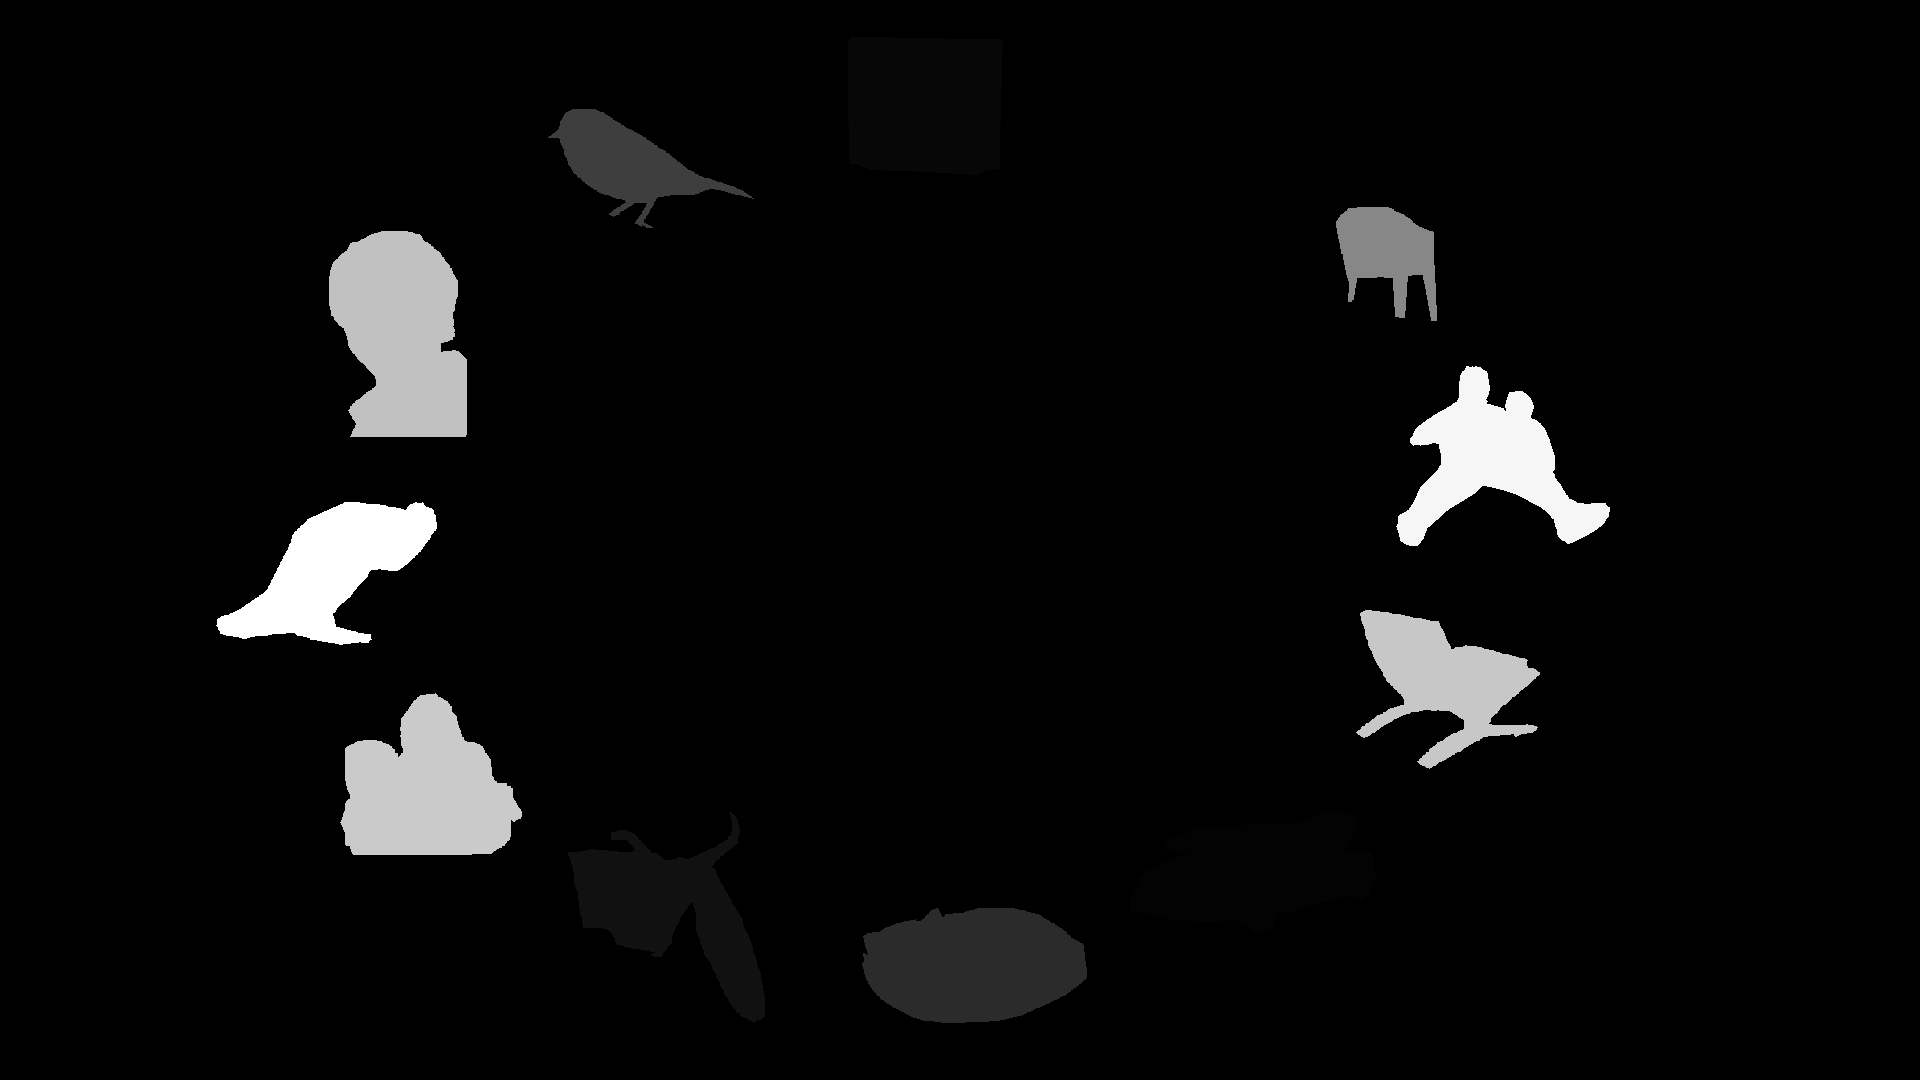
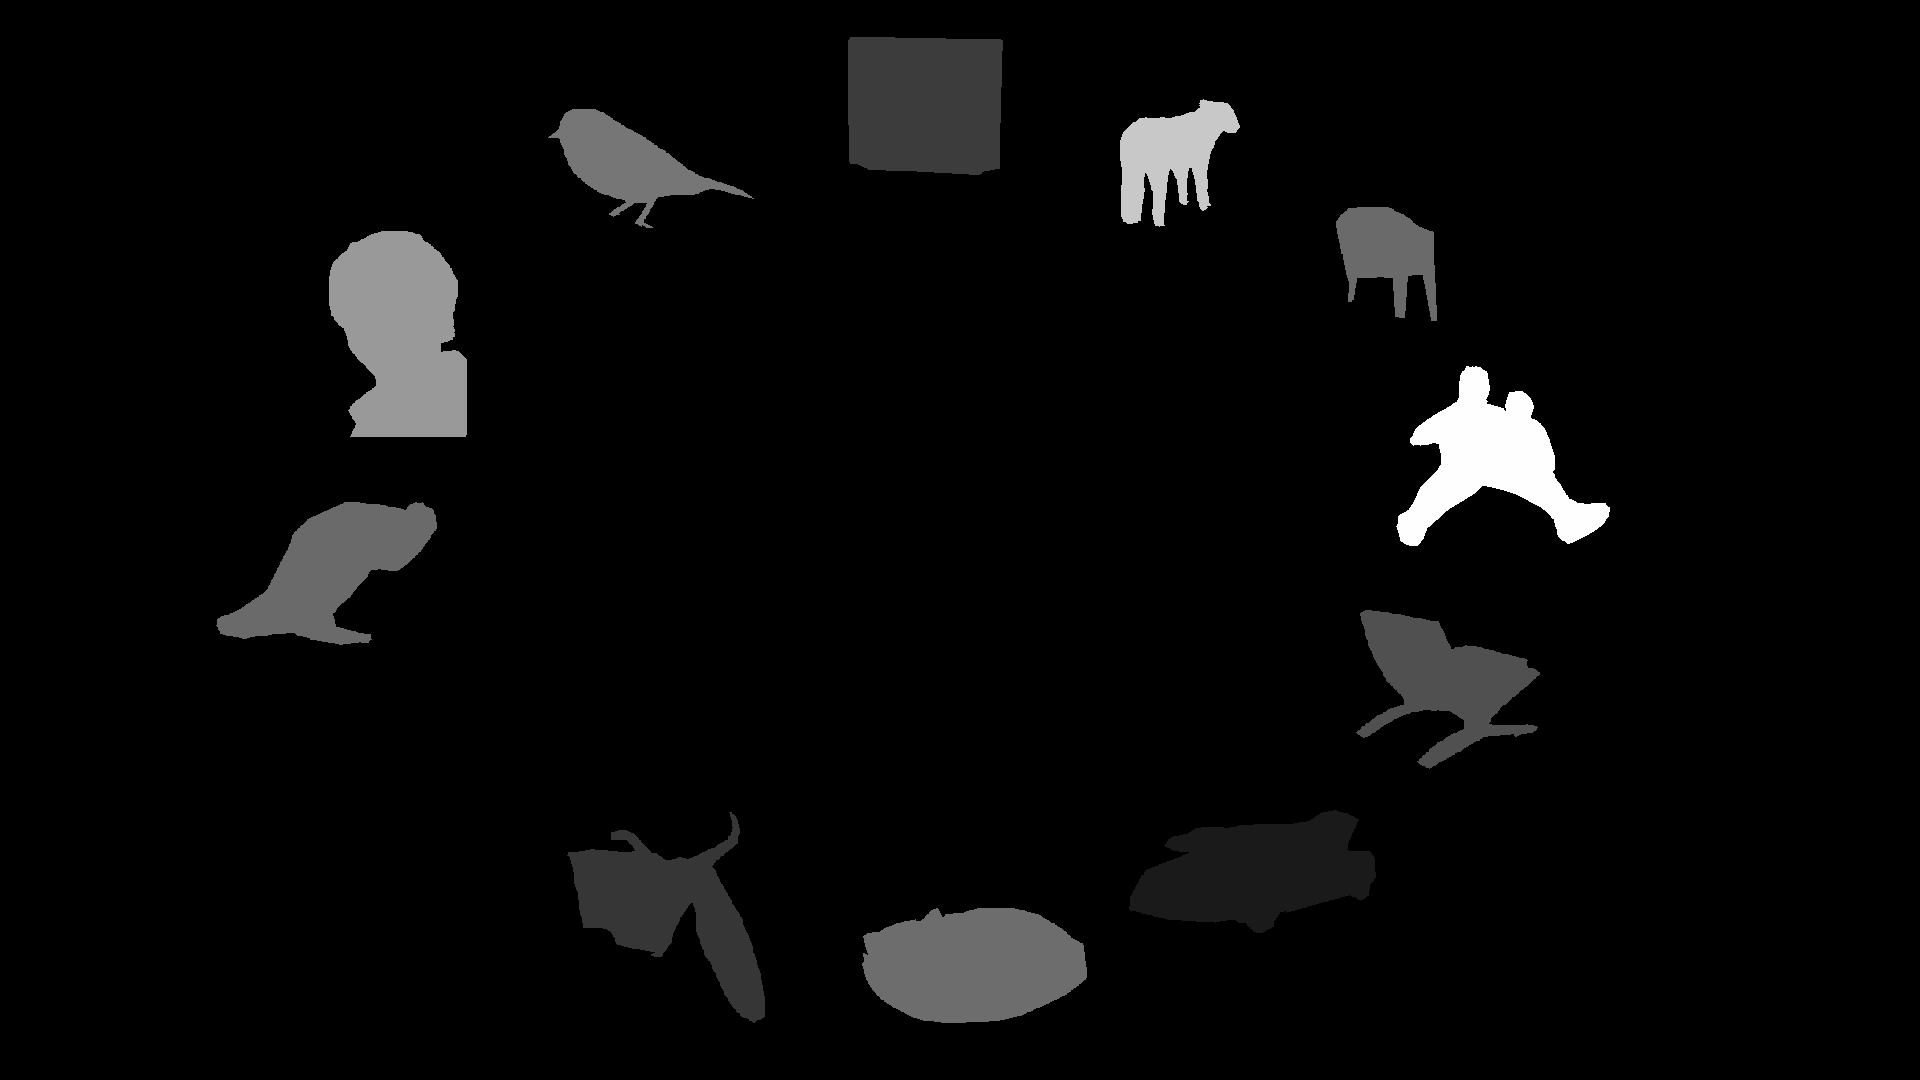
[Impl] model & code
global model update

edited code for dataset generation
TODO: edit cropping of image

diff --git a/utils/extract_dataset.py b/utils/extract_dataset.py
@@ -33,7 +33,7 @@ def extract_dataset():
 
     # Prepare h5py format for storage
     # Open file and prepare for append
-    h5f = h5py.File(store_file, 'a')
+    h5f = h5py.File(store_file, 'w')
     train_loc = h5f.create_dataset("train_loc", (0, image_size, image_size, len(loc_models) + 1),
                                    maxshape=(None, image_size, image_size, len(loc_models) + 1))
     valid_loc = h5f.create_dataset("valid_loc", (0, image_size, image_size, len(loc_models) + 1),
@@ -113,7 +113,7 @@ def extract_dataset():
                 # Create multichannel image
                 result_image = np.concatenate((result_image, scaled_mod_shape), axis=2)
                 if verbose == 1:
-                    cv.imwrite(store_verbose+str(i)+'_'+str(j)+'_'+model+'.png',mod_shape)
+                    cv.imwrite(store_verbose+str(i)+'_'+str(j)+'_loc_'+model+'.png',mod_shape)
 
             store_image_loc.append(result_image)
             store_gt_loc.append(scaled_gt_loc_shape_image)
@@ -132,7 +132,7 @@ def extract_dataset():
                 # Create multichannel image
                 result_image = np.concatenate((result_image, scaled_mod_shape), axis=2)
                 if verbose == 1:
-                    cv.imwrite(store_verbose+str(i)+'_'+str(j)+'_'+model+'.png',mod_shape)
+                    cv.imwrite(store_verbose+str(i)+'_'+str(j)+'_glob_'+model+'.png',mod_shape)
 
             store_image_glob.append(result_image)
             store_gt_glob.append(scaled_gt_glob_shape_image)

diff --git a/utils/util.py b/utils/util.py
@@ -32,7 +32,7 @@ def get_images_list():
     for file in os.listdir('../images/.'):
         if file.endswith(".png"):
             name = os.path.splitext(file)[0]
-            images.append(name)
+            images.append(file)
 
     return images
 
@@ -78,6 +78,7 @@ def get_local_gt(name, blank_image, bx, by, bw, bh, max_fix, sigma, kernel, bina
 
     if resize > 0:
         blank_image = cv.resize(blank_image, (resize, resize))
+        blank_image = blank_image.reshape(resize, resize, 1)
 
     if sigma > 0:
         blank_image = cv.GaussianBlur(blank_image, (int(kernel), int(kernel)), float(sigma))
@@ -130,6 +131,7 @@ def get_clipped_shape(from_image, bx, by, bw, bh, area, resize):
 
     if resize > 0:
         shape_image = cv.resize(shape_image, (resize, resize))
+        shape_image = shape_image.reshape(resize, resize, 1)
 
     # We need to scale it to 0-1 based on whole image (in case of global saliency models)
     scaled_shape_image = np.zeros((shape_image.shape[0], shape_image.shape[1], 1), np.float64)
